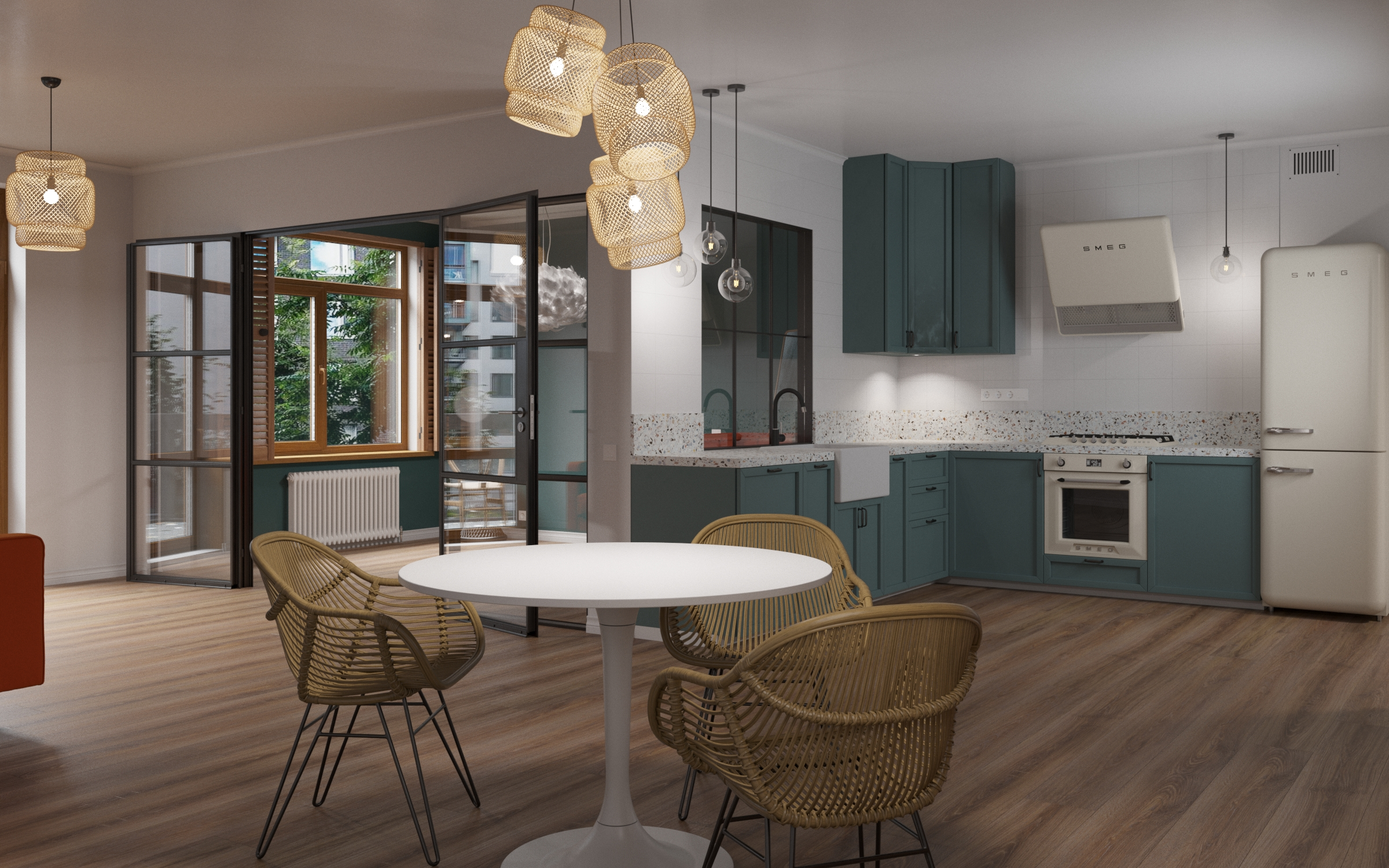
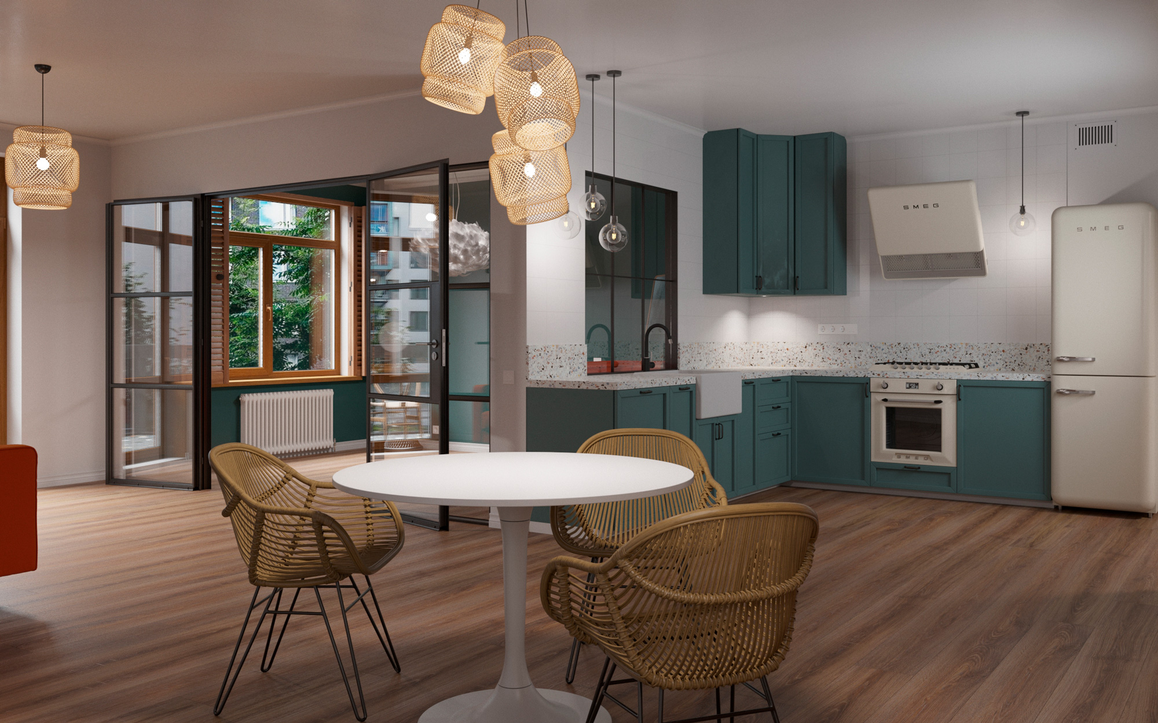
Оптимизация изображений в прогрессив jpeg

diff --git a/index.html b/index.html
@@ -19,7 +19,7 @@
     <div class="container">
       <div class="header-wrap">
         <div class="header-logo">
-          <img src="img/header/круглый белый внутри.png" alt="">
+          <img src="img/header/circle-logo.png" alt="">
         </div>
         <!-- /.header-logo -->
         <div class="page-title header__title">
@@ -402,8 +402,8 @@
         <!-- /.compare-text -->
         <div class="compare-image">
           <div id="container2" class='twentytwenty-container'>
-            <img src="img/compare/гостиная классика 1.jpg" alt="">
-            <img src="img/compare/гостиная классика 1н.jpg" alt="">
+            <img src="img/compare/1.jpg" alt="Фотография гостинной днем. Pine-studio">
+            <img src="img/compare/2.jpg" alt="Фотография гостинной ночью. Pine studio">
           </div>
         </div>
         <!-- /.compare-image -->

diff --git a/1.html b/1.html
@@ -20,7 +20,7 @@
     <div class="container">
       <div class="header-wrap">
         <div class="header-logo">
-          <a href="index.html"><img src="img/header/круглый белый внутри.png" alt=""></a>
+          <a href="index.html"><img src="img/header/circle-logo.png" alt=""></a>
         </div>
         <!-- /.header-logo -->
         <div class="page-title header__title">

diff --git a/2.html b/2.html
@@ -20,7 +20,7 @@
     <div class="container">
       <div class="header-wrap">
         <div class="header-logo">
-          <a href="index.html"><img src="img/header/круглый белый внутри.png" alt=""></a>
+          <a href="index.html"><img src="img/header/circle-logo.png" alt=""></a>
         </div>
         <!-- /.header-logo -->
         <div class="header_title">

diff --git a/3.html b/3.html
@@ -20,7 +20,7 @@
     <div class="container">
       <div class="header-wrap">
         <div class="header-logo">
-          <a href="index.html"><img src="img/header/круглый белый внутри.png" alt=""></a>
+          <a href="index.html"><img src="img/header/circle-logo.png" alt=""></a>
         </div>
         <!-- /.header-logo -->
         <div class="header_title">

diff --git a/css/style.css b/css/style.css
@@ -1729,7 +1729,7 @@ input.error {
 
 .steps {
   text-align: left;
-  background-image: url("../img/steps/2.png");
+  background-image: url("../img/steps/2.jpg");
   background-position: center center;
   background-size: cover;
   background-attachment: fixed;

diff --git a/sass/blocks/_steps.sass b/sass/blocks/_steps.sass
@@ -15,7 +15,7 @@
 
 .steps 
   text-align: left
-  background-image: url("../img/steps/2.png")
+  background-image: url("../img/steps/2.jpg")
   background-position: center center
   background-size: cover
   background-attachment: fixed
